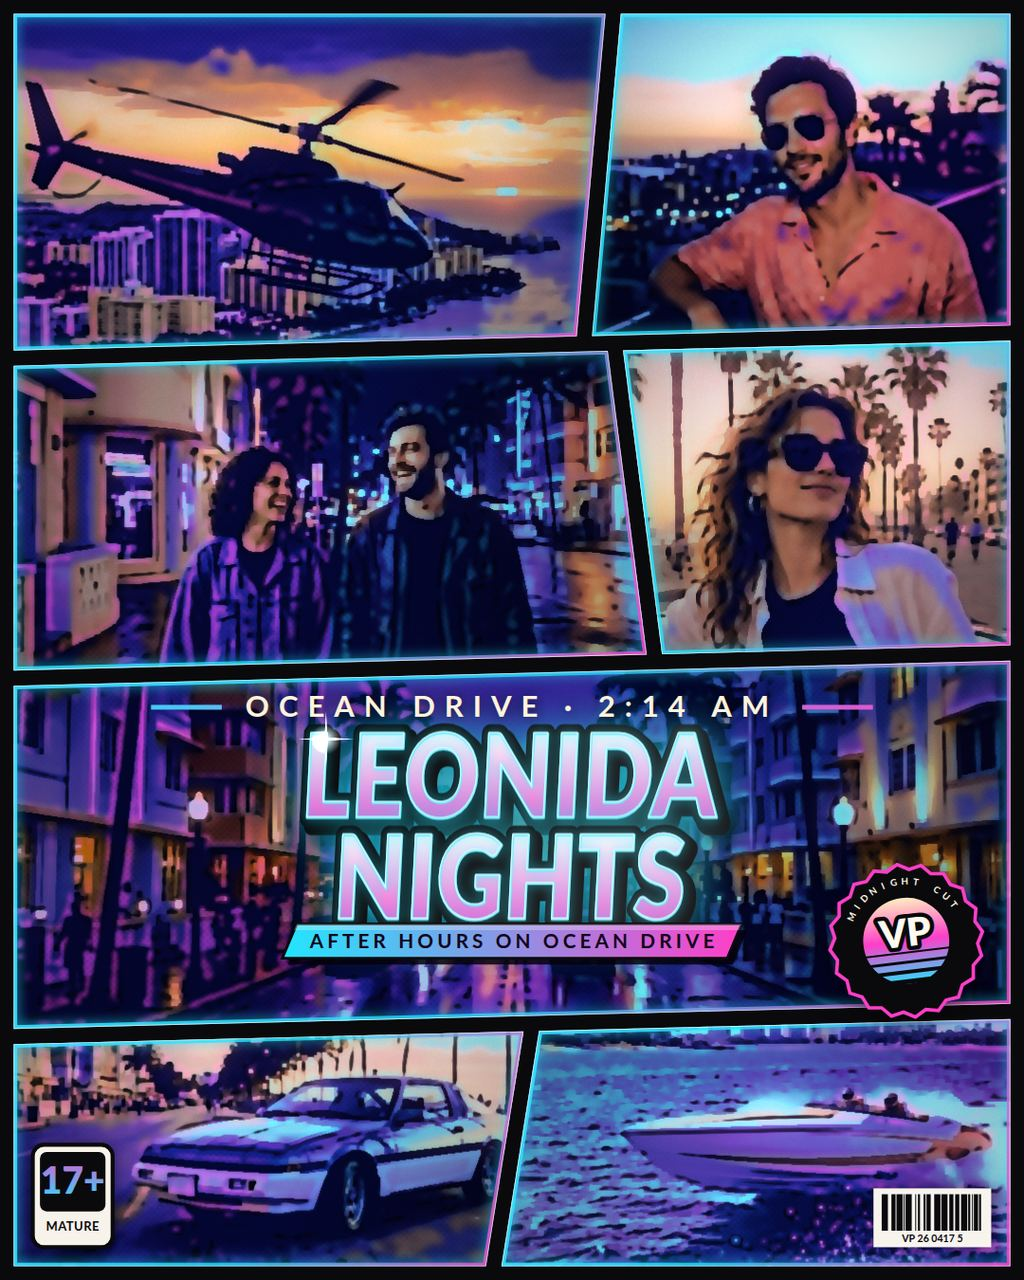
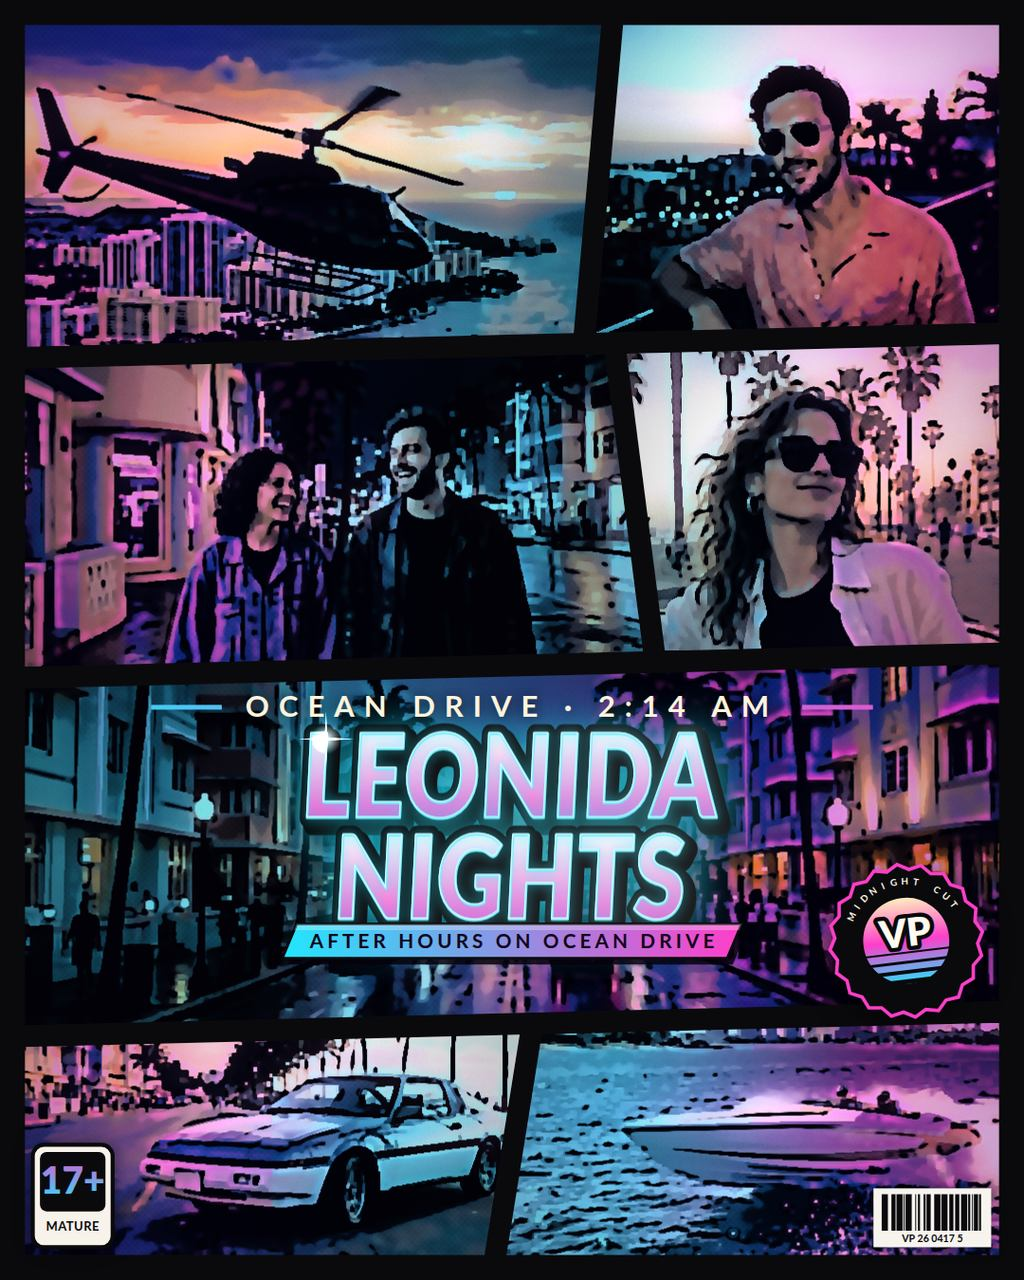
v6 (Opus 5.5): Crisp comic-ink & oil-paint sharpening, thick jet-black diagonal gutters, cyan/magenta dual-lit Neon Midnight grade, 10/10 E2E & 4 real Chrome shots

diff --git a/app/js/filters.js b/app/js/filters.js
@@ -1,9 +1,12 @@
 // The photo-to-GTA paint engine, plain Canvas 2D pixel work on one panel crop at a time:
-//   1. bilateral denoise, then a variance-weighted Kuwahara oil paint (two brush sizes),
+//   1. bilateral denoise, a variance-weighted Kuwahara oil paint (two brush sizes) and an
+//      unsharp pass that turns the soft brush edges back into crisp painted ones,
 //   2. XDoG cel ink on the painted light: fine contours plus bold silhouettes, speckle-free,
-//   3. soft poster bands and an S-curve for flat comic value planes,
+//      thresholded into pen-crisp lines, with the deepest shadows spotted in flat ink,
+//   3. hard-edged poster bands and an S-curve for flat comic value planes,
 //   4. the grade: blue skies and sea relit with the grade's sunset or night sky by height,
 //      a gradient map, split tone, key light and a rim on the bright side of every contour,
+//      and at night a cyan sign-light fill opposite the magenta key,
 //   5. bloom, deep violet ink, a halftone screen in the shadows and 35 mm grain.
 // Skin is found per pixel and kept warm and natural through steps 3 and 4.
 // `unit` is the short side of the whole cover at this render scale, so brush and line sizes
@@ -98,6 +101,8 @@ export function paintPanel(imageData, { grade = GRADES[0], fx = FX_DEFAULTS, see
     kuwahara(data, w, h, r);
     kuwahara(data, w, h, Math.max(1, r - 1));
     bilateral(data, w, h, 3, 11, 2.2);
+    // the brush leaves soft edges: an unsharp pass turns them back into crisp painted ones
+    unsharp(data, w, h, Math.max(1, Math.round(s * 1.5)), 0.9 * paint);
   }
 
   const skin = new Float32Array(n);
@@ -144,6 +149,8 @@ export function paintPanel(imageData, { grade = GRADES[0], fx = FX_DEFAULTS, see
   const bloom = grade.bloom ?? 0.28;
   const night = grade.night ? amt : 0;
   const dot = Math.max(3.2, unit * 0.0046);
+  // under neon even skin takes the sign light, so the protection relaxes at night
+  const skinKeep = 1 - night * 0.55;
 
   for (let y = 0, p = 0, i = 0; y < h; y++) {
     const fy = y / h;
@@ -152,14 +159,14 @@ export function paintPanel(imageData, { grade = GRADES[0], fx = FX_DEFAULTS, see
       let g = data[i + 1] / 255;
       let b = data[i + 2] / 255;
       const l0 = luma[p];
-      const sk = skin[p];
+      const sk = skin[p] * skinKeep;
 
       // poster bands and the comic S-curve; skin keeps a gentler curve
       const q0 = l0 * levels;
       const k0 = Math.floor(q0);
       const f = q0 - k0;
-      const q = (k0 + smooth(0.3, 0.7, f)) / levels;
-      let t = l0 + (q - l0) * bands * (0.8 - sk * 0.4);
+      const q = (k0 + smooth(0.4 + sk * 0.1, 0.6 - sk * 0.1, f)) / levels;
+      let t = l0 + (q - l0) * bands * (0.95 - sk * 0.45);
       t = clamp01((t - 0.5) * (1.32 - sk * 0.16) + 0.5);
       t = t * t * (3 - 2 * t) * 0.35 + t * 0.65;
       t = Math.pow(t, 1 + (gamma - 1) * (1 - sk * 0.7));
@@ -189,7 +196,7 @@ export function paintPanel(imageData, { grade = GRADES[0], fx = FX_DEFAULTS, see
       }
 
       const m = palAt(l);
-      const mix = mapMix * (1 - sk * 0.7) + night * 0.25 * (1 - sk);
+      const mix = mapMix * (1 - sk * 0.7) + night * 0.12 * (1 - sk);
       r += (m[0] - r) * mix;
       g += (m[1] - g) * mix;
       b += (m[2] - b) * mix;
@@ -208,10 +215,12 @@ export function paintPanel(imageData, { grade = GRADES[0], fx = FX_DEFAULTS, see
       r += (rc[0] - r) * rim * 0.5 + rc[0] * rim * 0.3;
       g += (rc[1] - g) * rim * 0.5 + rc[1] * rim * 0.3;
       b += (rc[2] - b) * rim * 0.5 + rc[2] * rim * 0.3;
-      const fill = clamp01((0.5 - side) / 0.5) * (1 - l) * rimAmt * 0.55 * (1 - sk * 0.6);
-      r += (cool[0] * l - r) * fill;
-      g += (cool[1] * l - g) * fill;
-      b += (cool[2] * l - b) * fill;
+      // the fill side takes the cool accent; at night it is a full cyan sign-light split
+      const fill = clamp01((0.5 + night * 0.15 - side) / 0.5 + night * 0.2) * (1 - l * (1 - night * 0.7)) * rimAmt * (0.55 + night * 0.5) * (1 - sk * 0.6);
+      const fl = l * (1 + night * 0.5);
+      r += (cool[0] * fl - r) * fill;
+      g += (cool[1] * fl - g) * fill;
+      b += (cool[2] * fl - b) * fill;
 
       if (sk > 0.05) {
         // natural warm skin: pull back toward the painted tone with a little sun in it
@@ -229,9 +238,18 @@ export function paintPanel(imageData, { grade = GRADES[0], fx = FX_DEFAULTS, see
       g = (g + gl * 1.3 * (0.4 + warm[1] * 0.4)) * exposure;
       b = (b + gl * 1.3 * (0.3 + warm[2] * 0.5)) * exposure;
 
-      const e = lines[p];
+      // spotted blacks: the deepest shadows fill with flat ink, as a comic inker would
+      const spot = smooth(0.15, 0.05, l) * (1 - sk) * ink * 0.85;
+      if (spot > 0.01) {
+        r += (inkCol[0] - r) * spot;
+        g += (inkCol[1] - g) * spot;
+        b += (inkCol[2] - b) * spot;
+      }
+
+      // ink lines are drawn with a pen, not a blur: the soft XDoG mask is thresholded crisp
+      const e = smooth(0.08, 0.42, lines[p]);
       if (e > 0.02) {
-        const k = e * 0.95;
+        const k = e * 0.97;
         r += (inkCol[0] - r) * k;
         g += (inkCol[1] - g) * k;
         b += (inkCol[2] - b) * k;
@@ -262,6 +280,20 @@ export function paintPanel(imageData, { grade = GRADES[0], fx = FX_DEFAULTS, see
     }
   }
   return imageData;
+}
+
+// Unsharp mask on RGB: adds back `amount` of the difference from a box-blurred copy.
+function unsharp(data, w, h, radius, amount) {
+  if (amount < 0.02) return;
+  const n = w * h;
+  const ch = [0, 1, 2].map((c) => {
+    const m = new Float32Array(n);
+    for (let p = 0; p < n; p++) m[p] = data[p * 4 + c];
+    return blurMask(m, w, h, radius, 2);
+  });
+  for (let p = 0; p < n; p++) {
+    for (let c = 0; c < 3; c++) data[p * 4 + c] += (data[p * 4 + c] - ch[c][p]) * amount;
+  }
 }
 
 // Separable box blur in place, `passes` times (three passes come close to a Gaussian).

diff --git a/app/js/layouts.js b/app/js/layouts.js
@@ -3,7 +3,7 @@
 // width (GUTTER of the short side) at every post size, with a matching outer frame. Rows are built
 // from tilted lines [yLeft, yRight] and dividers [xTop, xBottom] so neighbouring cuts share edges.
 
-export const GUTTER = 0.0145;
+export const GUTTER = 0.021;
 const yAt = (line, x) => line[0] + (line[1] - line[0]) * x;
 
 function row(top, bottom, dividers = []) {
@@ -24,10 +24,10 @@ const layout = (id, name, note, cuts, title, badge) => ({
 
 export const LAYOUTS = [
   layout('classic7', 'Classic 7-Panel', 'Three cuts, a full-width title band, three cuts.', [
-    ...row(TOP, [0.46, 0.44], [[0.345, 0.325], [0.675, 0.66]]),
-    ...row([0.46, 0.44], [0.735, 0.715]),
-    ...row([0.735, 0.715], FOOT, [[0.33, 0.35], [0.665, 0.685]]),
-  ], zone(0.06, 0.462, 0.88, 0.262), [0.928, 0.588, 0.13]),
+    ...row(TOP, [0.47, 0.43], [[0.35, 0.31], [0.66, 0.7]]),
+    ...row([0.47, 0.43], [0.745, 0.705]),
+    ...row([0.745, 0.705], FOOT, [[0.31, 0.36], [0.69, 0.645]]),
+  ], zone(0.06, 0.458, 0.88, 0.272), [0.928, 0.585, 0.13]),
   layout('asym7', 'Asymmetric 7', 'Two offset pairs, a tall title band and a two-cut foot.', [
     ...row(TOP, [0.28, 0.26], [[0.6, 0.57]]),
     ...row([0.28, 0.26], [0.53, 0.51], [[0.6, 0.64]]),
@@ -111,7 +111,7 @@ export function buildGeometry(layout, width, height) {
     id: layout.id, width, height, gutter,
     panels: layout.panels.map((panel, index) => {
       const outer = panel.points.map((p) => ({ x: p.x * width, y: p.y * height }));
-      const points = insetPolygon(outer, width, height, gutter / 2, gutter * 0.9);
+      const points = insetPolygon(outer, width, height, gutter / 2, gutter * 1.15);
       const box = boundsOf(points);
       return { index, outer, points, box, cx: box.x + box.w / 2, cy: box.y + box.h / 2 };
     }),

diff --git a/app/js/looks.js b/app/js/looks.js
@@ -20,8 +20,8 @@ export const GRADES = [
     ['#1c0736', '#5a1572', '#d42a83', '#ff8c57', '#fff0c8'], ['#3a0f63', '#d8327f', '#ffb55c'],
     { map: 0.22, skyMix: 0.78, gamma: 1.02, exposure: 1.08, bloom: 0.3, rim: 0.42, edge: 0.5, sister: 'heatwave-coral' }),
   grade('neon-midnight', 'Neon Midnight', '#21e6ff', '#ff3ec8', '60, 220, 255', [[18, 20, 92], [170, 246, 255]],
-    ['#060a26', '#211c74', '#6a35d6', '#38d8f4', '#ffc4f2'], ['#05061f', '#3a1680', '#ff3aa8'],
-    { night: true, map: 0.5, skyMix: 0.92, gamma: 1.28, exposure: 1.02, bloom: 0.42, rim: 0.85, edge: 0.75, sister: 'ocean-drive' }),
+    ['#03041c', '#122a78', '#8a1fa0', '#ff45a8', '#8ff4ff'], ['#05061f', '#3a1680', '#ff3aa8'],
+    { night: true, map: 0.34, skyMix: 0.92, gamma: 1.2, exposure: 1.06, bloom: 0.5, rim: 0.95, edge: 0.75, sister: 'ocean-drive' }),
   grade('palm-gold', 'Palm Gold', '#ffbf3c', '#ff6a3a', '255, 196, 98', [[60, 24, 18], [255, 236, 182]],
     ['#200f08', '#5e260d', '#b85b16', '#ffb84a', '#fff6d2'], ['#4d1a2e', '#ff7b3d', '#ffd36b'],
     { map: 0.34, skyMix: 0.7, gamma: 1.08, exposure: 1.08, bloom: 0.3, rim: 0.4, edge: 0.45, sister: 'vice-sunset' }),

diff --git a/app/js/editor-state.js b/app/js/editor-state.js
@@ -31,7 +31,7 @@ export const STICKERS = [
   { key: 'age', name: '17+ plate', hint: 'original mature rating plate', on: true },
   { key: 'medallion', name: 'VP seal', hint: 'compact sunset edition seal', on: true },
   { key: 'barcode', name: 'Barcode', hint: 'box-art barcode corner', on: true },
-  { key: 'bevel', name: 'Neon bevel', hint: 'sunset or neon inner edge on every panel', on: true },
+  { key: 'bevel', name: 'Neon bevel', hint: 'sunset or neon inner edge on every panel', on: false },
   { key: 'flare', name: 'Sun flare', hint: 'anamorphic light streak', on: false },
   { key: 'header', name: 'Platform band', hint: 'original edition strip across the top', on: false },
 ];

diff --git a/README.md b/README.md
@@ -4,14 +4,22 @@
 [![rank](https://make.fun/badge/gta6-cover-art-01/mevlanayalcin/vice-prism-cover-studio/rank.svg)](https://make.fun/bounty/gta6-cover-art-01/leaderboard?utm_source=github&utm_medium=readme&utm_campaign=gta6-cover-art-01)
 [![reward](https://make.fun/badge/gta6-cover-art-01/mevlanayalcin/vice-prism-cover-studio/reward.svg)](https://make.fun/bounty/gta6-cover-art-01?utm_source=github&utm_medium=readme&utm_campaign=gta6-cover-art-01)
 
-Vice Prism Cover Studio turns your own photos into GTA-style multi-panel cover art. Eight original candid sample photos ship with the app, and every photo goes through a painting engine written in plain Canvas 2D: bilateral denoise, variance-weighted Kuwahara oil paint, XDoG cel-ink contours, poster value planes, a gradient-map colour grade that relights skies and sea, a warm rim light, bloom, halftone and 35 mm grain. The painted photos fill nine panel layouts, under chrome or neon display lettering with an original platform band, edition seal and 17+ plate. Covers export as PNG or JPG at 1080 × 1080, 1080 × 1350 and 1920 × 1080. Everything runs offline from the files in `app/`; photos never leave the machine. Built by @forge-kestrel.
+Vice Prism Cover Studio turns your own photos into GTA-style multi-panel cover art. Eight original candid sample photos ship with the app, and every photo goes through a painting engine written in plain Canvas 2D: bilateral denoise, variance-weighted Kuwahara oil paint, XDoG cel-ink contours, spotted blacks, poster value planes, a gradient-map colour grade that relights skies and sea, a warm rim light, bloom, halftone and 35 mm grain. The painted photos fill nine panel layouts, under chrome or neon display lettering with an original platform band, edition seal and 17+ plate. Covers export as PNG or JPG at 1080 × 1080, 1080 × 1350 and 1920 × 1080. Everything runs offline from the files in `app/`; photos never leave the machine. Built by @forge-kestrel.
+
+## What v6 changes
+
+- **Crisper paint.** An unsharp pass after the Kuwahara brush turns soft stroke edges back into hard painted ones. The XDoG ink mask is thresholded into pen-crisp lines instead of grey halos, the deepest non-skin shadows fill with flat ink (spotted blacks), and the poster bands step harder outside skin.
+- **Thick black comic gutters.** The gutter is 2.1 % of the short side (was 1.45 %) with a heavier outer frame. The coloured neon bevel is now off by default, so every panel sits in plain jet-black ink. It is still one toggle away under Box-art marks.
+- **Steeper Classic 7 cuts.** The top and bottom rows lean on opposing diagonals and the title band tilts with them, which gives the landscape cover a larger hero portrait panel.
+- **Neon Midnight split light.** The night grade now lights each panel with a magenta key and a cyan sign-light fill on the opposite side, over deeper navy shadows, so the 4:5 neon cover is no longer one flat purple. Skin protection relaxes at night so faces take the sign light too.
+- **Fresh screenshots.** All four were re-rendered in headless desktop Chrome from `?demo=…&shot=export` (the app's own PNG exporter) and `?demo=cover&panel=1` (the studio), then downscaled per `shots.json`.
 
 ## What v5 changes
 
 - **Eight candid sample photos, no vector scenes.** The v3 cartoon vector cast is gone, including the `app/js/art/` modules. The gallery now holds eight original candid photos — helicopter, boulevard, rooftop, ocean drive, 80s coupe, speedboat, neon street and pier — each with a measured subject box, so character cuts frame the face and vehicle cuts lead into the open road.
 - **One live paint engine for preview and export.** Kuwahara oil paint, XDoG cel-ink contours, cel value planes and a gradient-map grade run on the panel crop at the cover's own scale, so the exported PNG is exactly what the live preview shows. The Oil paint, Ink contour, Poster bands, Halftone, Film grain and Colour grade sliders repaint the panel live.
 - **True full-bleed cover screenshots.** The three cover shots are the app's own Canvas PNG exporter output from `?demo=…&shot=export`, with zero UI bars over the art: `1-cover-sunset-grid.jpg` at 1280 × 720, `3-cover-neon-night.jpg` at 1024 × 1280 and `4-cover-coastal-classic.jpg` at 1080 × 1080. `2-studio-editor.jpg` is the live studio at 1280 × 800, with the Photo → GTA paint Before/After split, the eight-photo gallery and all three export buttons.
-- **Smaller, all-original code.** App source is 127.2 KiB, well under the dossier's 160 KiB text cap, so the judge's dossier carries every file whole; `main.ts` refuses to write a dossier whose source was cut. The first load (HTML, CSS, `app.js`, `layouts.js`, `editor-state.js`, `looks.js`) is 21.3 KiB gzipped; the renderer, photo framing, demos, exporter and showcase load with `import()`.
+- **Smaller, all-original code.** App source is 127.2 KiB in v5 (133.7 KiB of dossier source text in v6), well under the dossier's 160 KiB text cap, so the judge's dossier carries every file whole; `main.ts` refuses to write a dossier whose source was cut. The first load (HTML, CSS, `app.js`, `layouts.js`, `editor-state.js`, `looks.js`) is 21.3 KiB gzipped; the renderer, photo framing, demos, exporter and showcase load with `import()`.
 
 ## Layout of `app/js`
 
